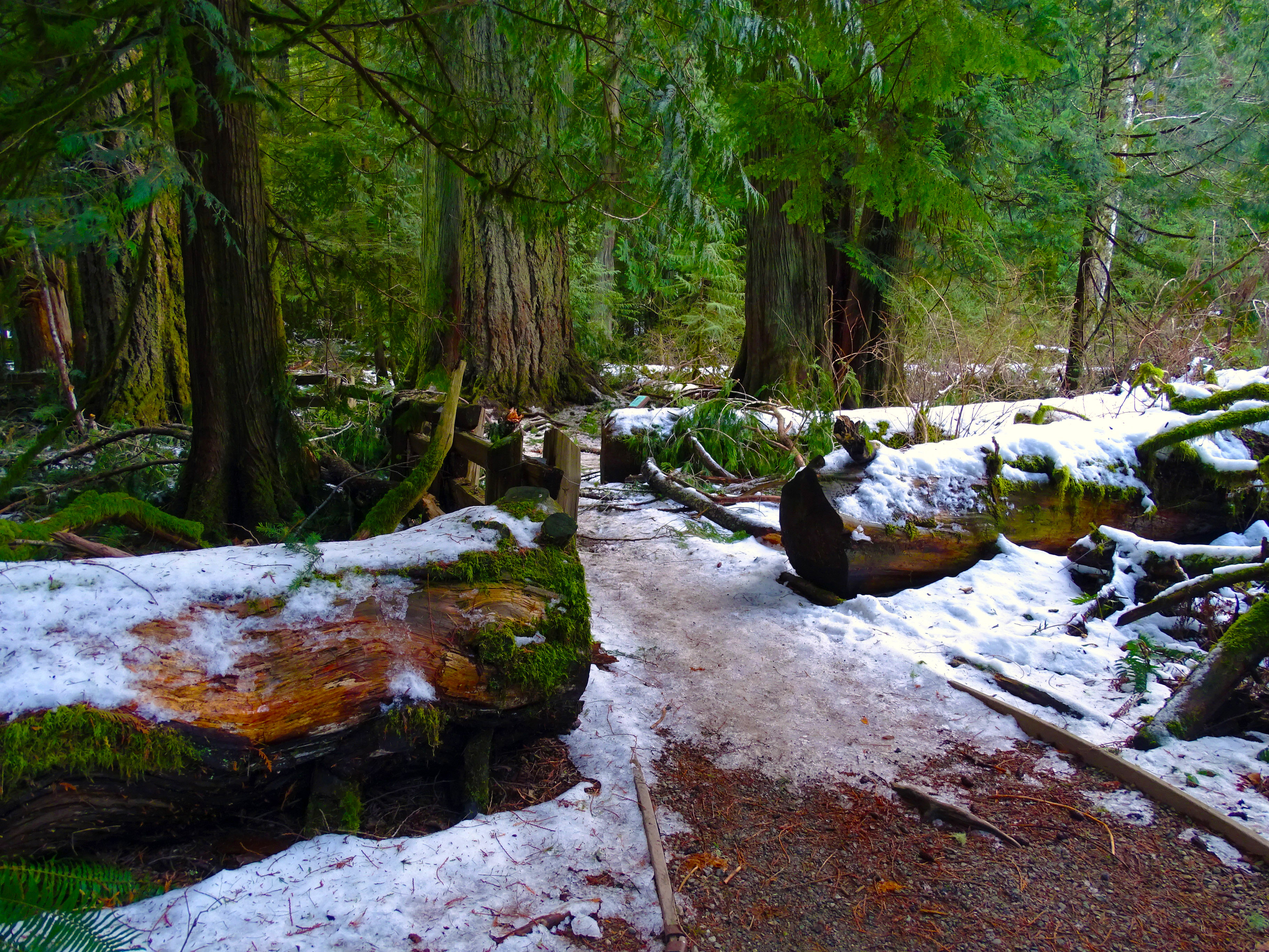
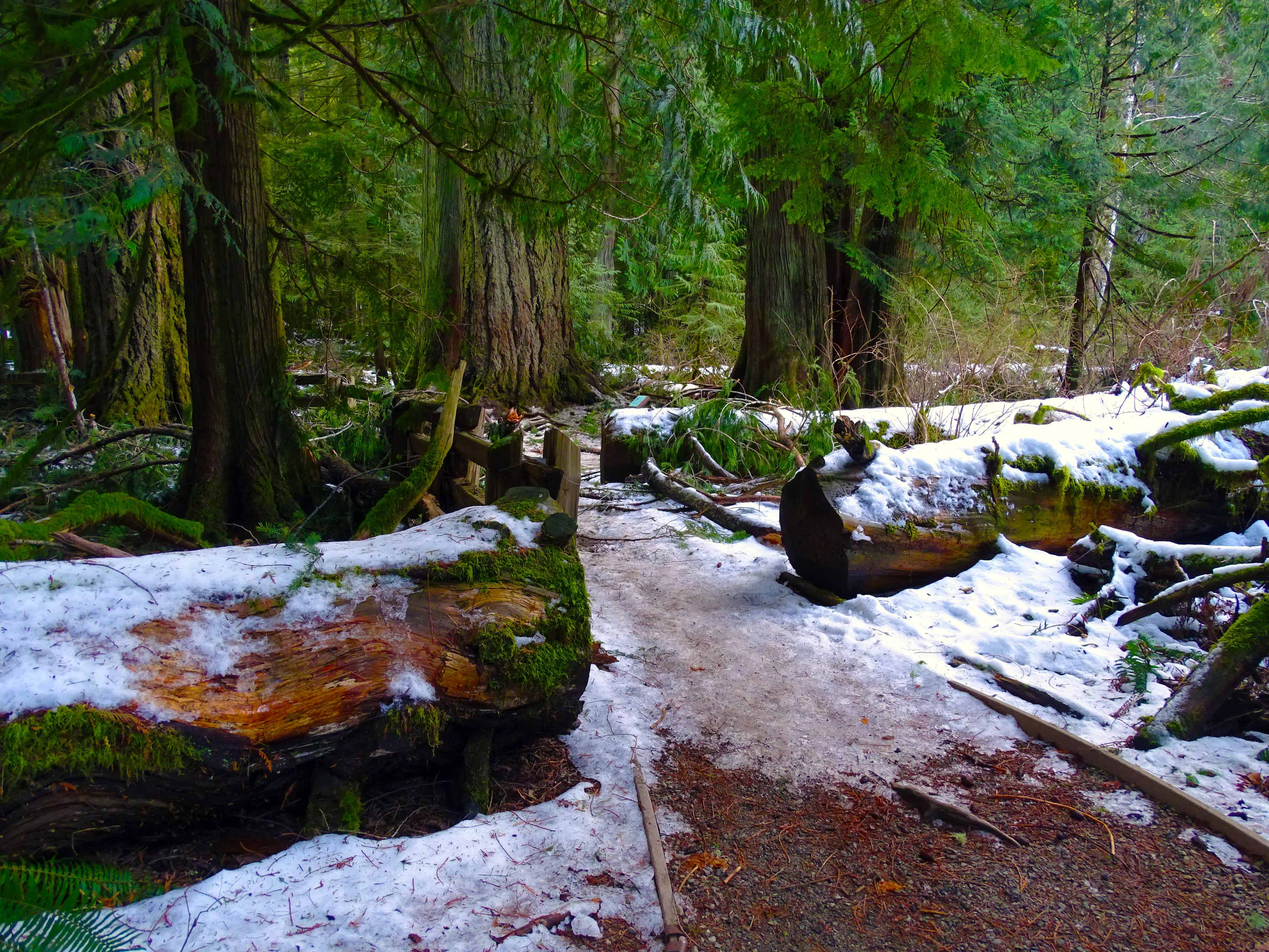
Image Resizing
Reduced the size of images on the site to less than 1MB each
Changed term to 2B on main page

diff --git a/index.html b/index.html
@@ -44,7 +44,7 @@
                 <div class="content__about col-md-12">
                     <h2 class="content-title">Hello there!</h2>
                     <p2 class="content-text">
-                    My name is Kyle Tam. I'm a 2A Mechatronics Engineering student pursuing a physical sciences option in physics at the University of Waterloo. 
+                    My name is Kyle Tam. I'm a 2B Mechatronics Engineering student pursuing a physical sciences option in physics at the University of Waterloo. 
                     <br> <br>
                     Welcome to my portfolio! Here, you can learn more about my previous projects and experiences. I'm interested in many topics including mechanical design, rocketry, aviation, physics research, astronomy and programming.
                     <br> <br>
